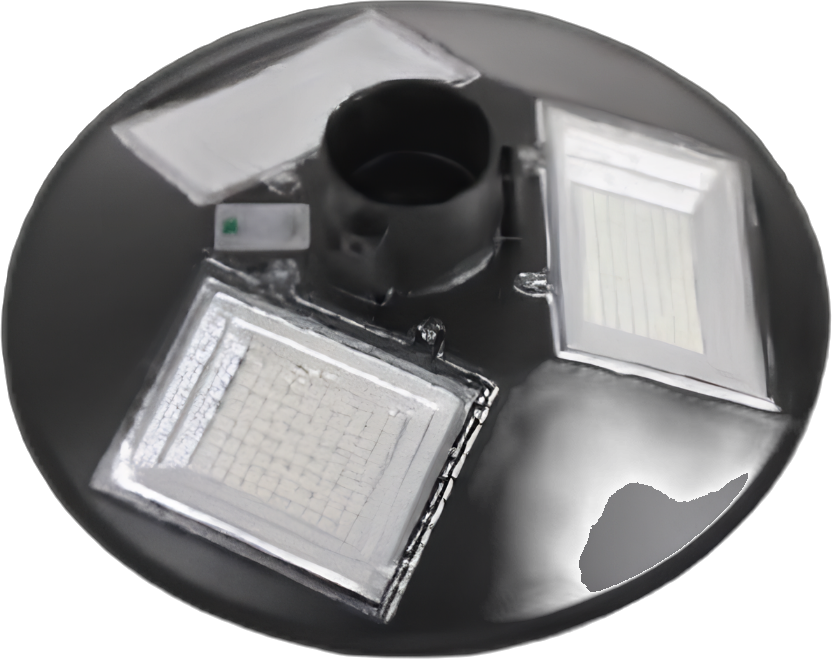
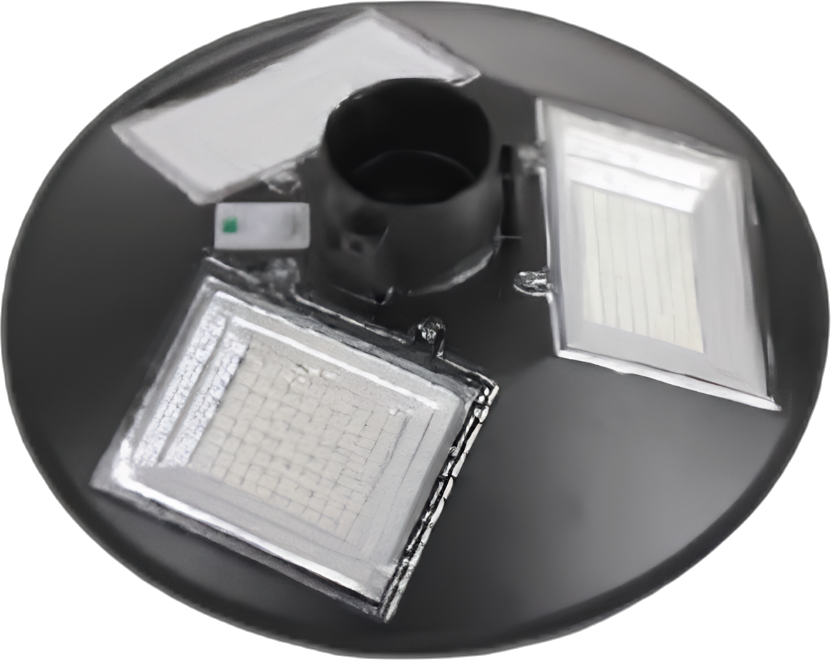
Full visual pass over every tile and category card
Went through all 117 tiles and 16 category cards at a size where defects are
actually visible. Six were wrong:

  * LF55 was badly ragged along its lower edge. isnet keeps 25% of it and loses
    to the pale-backdrop threshold, which then chews the boundary. u2net keeps
    69% and wins outright, so it takes the model override.
  * Delta had a hole through the LED panel. Its cut-out was stale — it had been
    rendered before an earlier change and never rebuilt.
  * Sky SPT-150 was 88.4% solid under isnet against 98.8% under u2net.
  * IS 3360, IS 3360 Highbay and IS 345 Highbay were showing the Smart Remote,
    fixed in the preceding commit and verified here.

Also tried loosening the pale-backdrop threshold from 2 to 8, which cleared the
anti-aliased ramp that leaves LF20 stepped. It fixed LF20 but put a scalloped
edge on IS 3360, so it is not a net win and is reverted. The reasoning is left in
the code so it is not retried blind.

LF20 is the one remaining defect and it is a supplier limitation: Rubicon
publish a single 502x240 product shot of a white profile on white, and their
store lists no alternative. The model cannot segment it at all — 5% coverage —
and the threshold leaves a stepped top edge. Checked their product JSON directly
to confirm no better image exists.

diff --git a/scripts/make-cutouts.py b/scripts/make-cutouts.py
@@ -227,6 +227,11 @@ def threshold_cutout(im):
         return None
     # A tight delta matters: the product's brightest faces sit within a couple of
     # levels of the backdrop, and anything looser drops them and leaves gaps.
+    # A looser margin (8) was tried here to clear the anti-aliased ramp at a pale
+    # product's edge, which is what leaves LF20 stepped. It fixed LF20 but put a
+    # scalloped edge on IS 3360, so it is not a net win — IS 3360 is clean at 2
+    # and LF20 is stepped at either. Reverted pending something that helps one
+    # without costing the other.
     mask = (g < bg - 2).astype(np.uint8) * 255
     mask = np.array(Image.fromarray(mask, 'L').filter(ImageFilter.MedianFilter(5)))
     mask = _largest_component(mask)
@@ -257,6 +262,10 @@ def threshold_cutout(im):
 MODEL_OVERRIDE = {
     'sensors/is-345-highbay': 'u2net',
     'sensors/is-3360-highbay': 'u2net',   # isnet leaves it 88.7% solid, u2net 98.8%
+    'solar/sky-spt-150-solar-post-top': 'u2net',  # 88.4% -> 98.8% solid
+    # isnet keeps 25% of LF55 and loses to the pale-backdrop threshold, which
+    # then chews its lower edge. u2net keeps 69% and wins outright.
+    'linears/lf55': 'u2net',
 }
 
 
